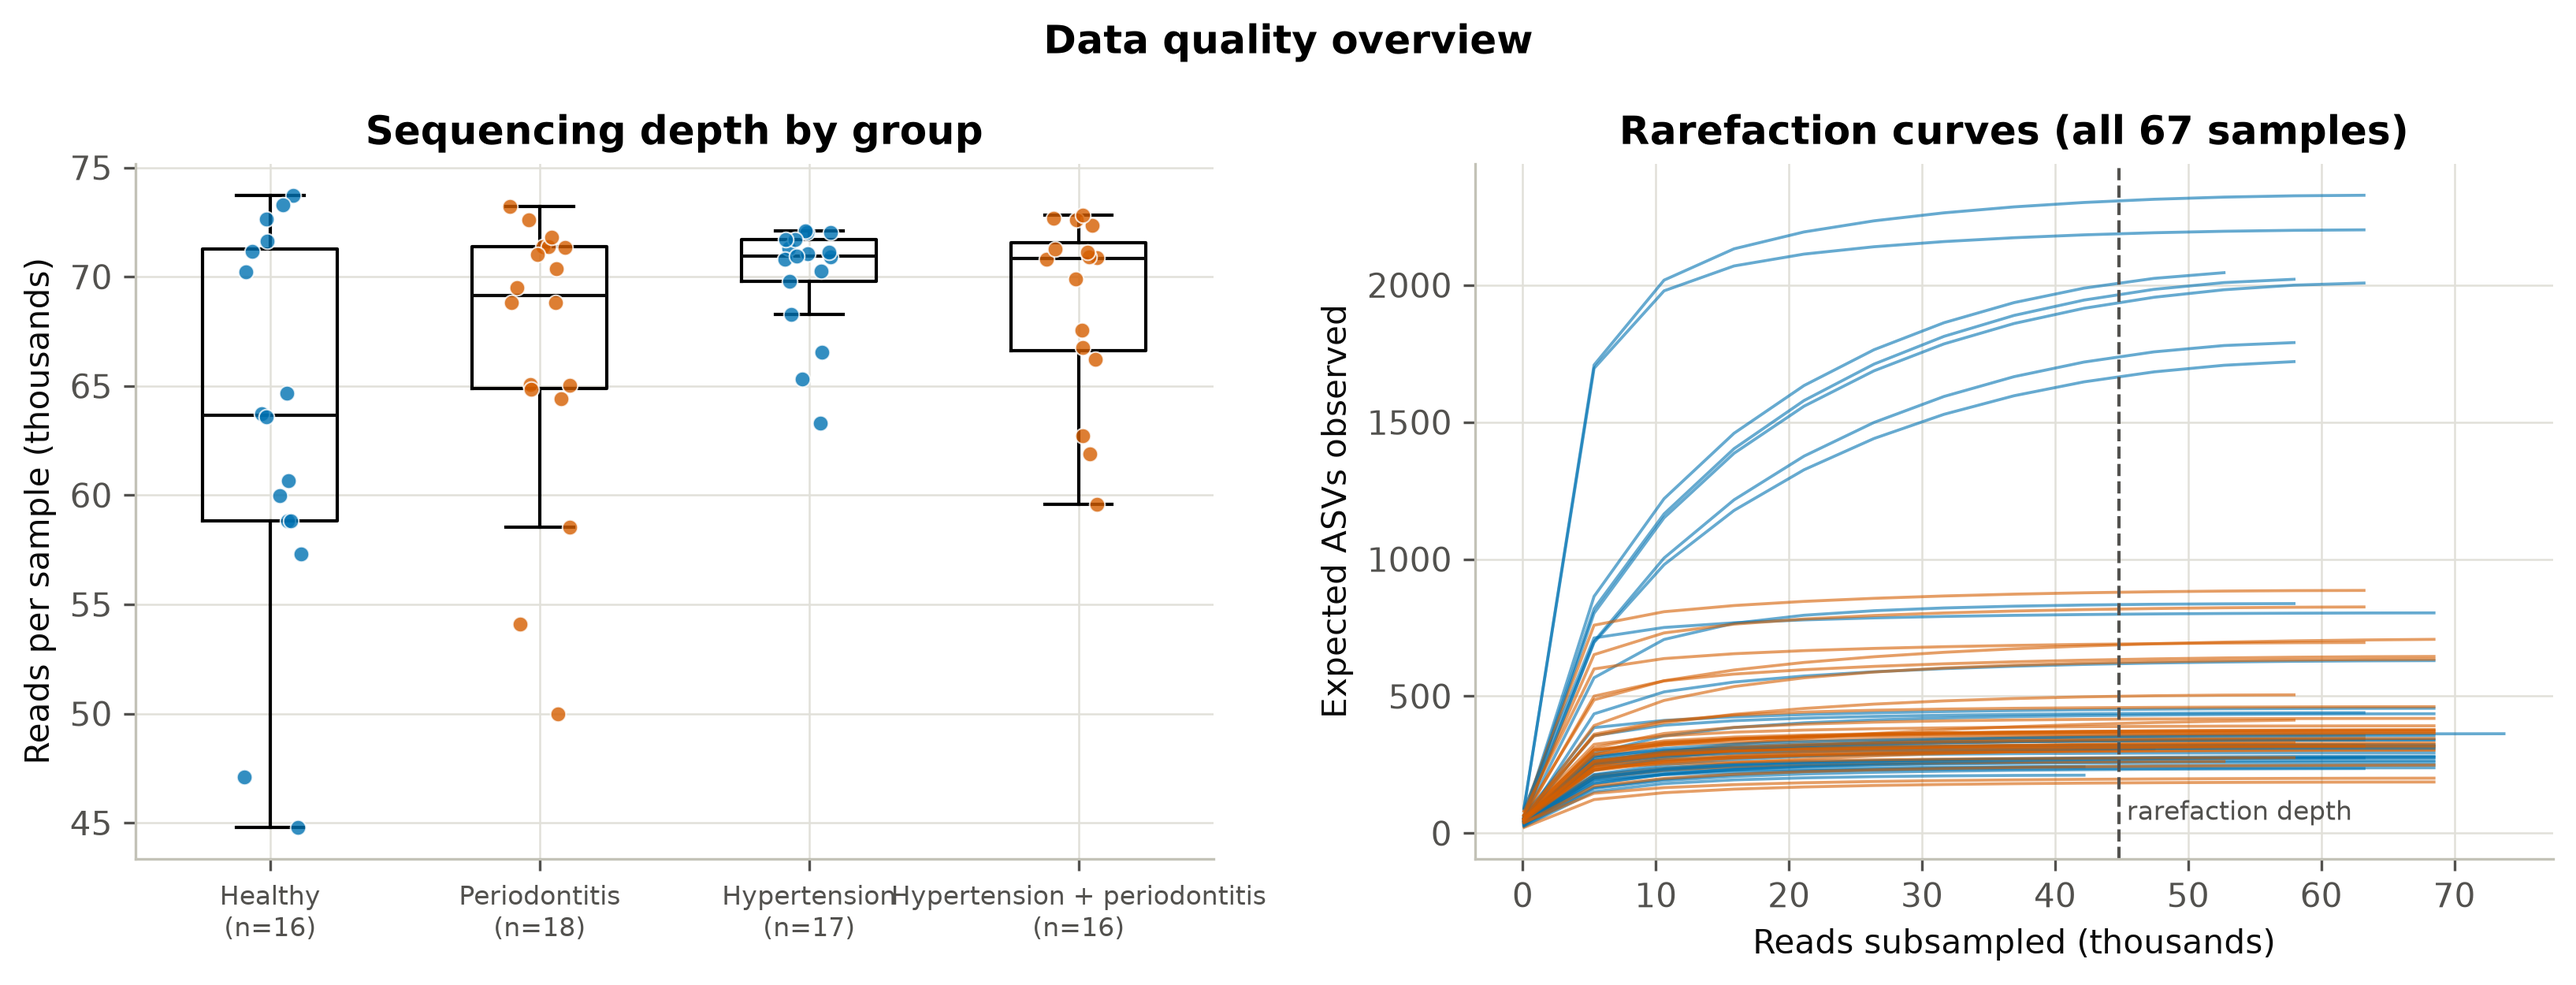
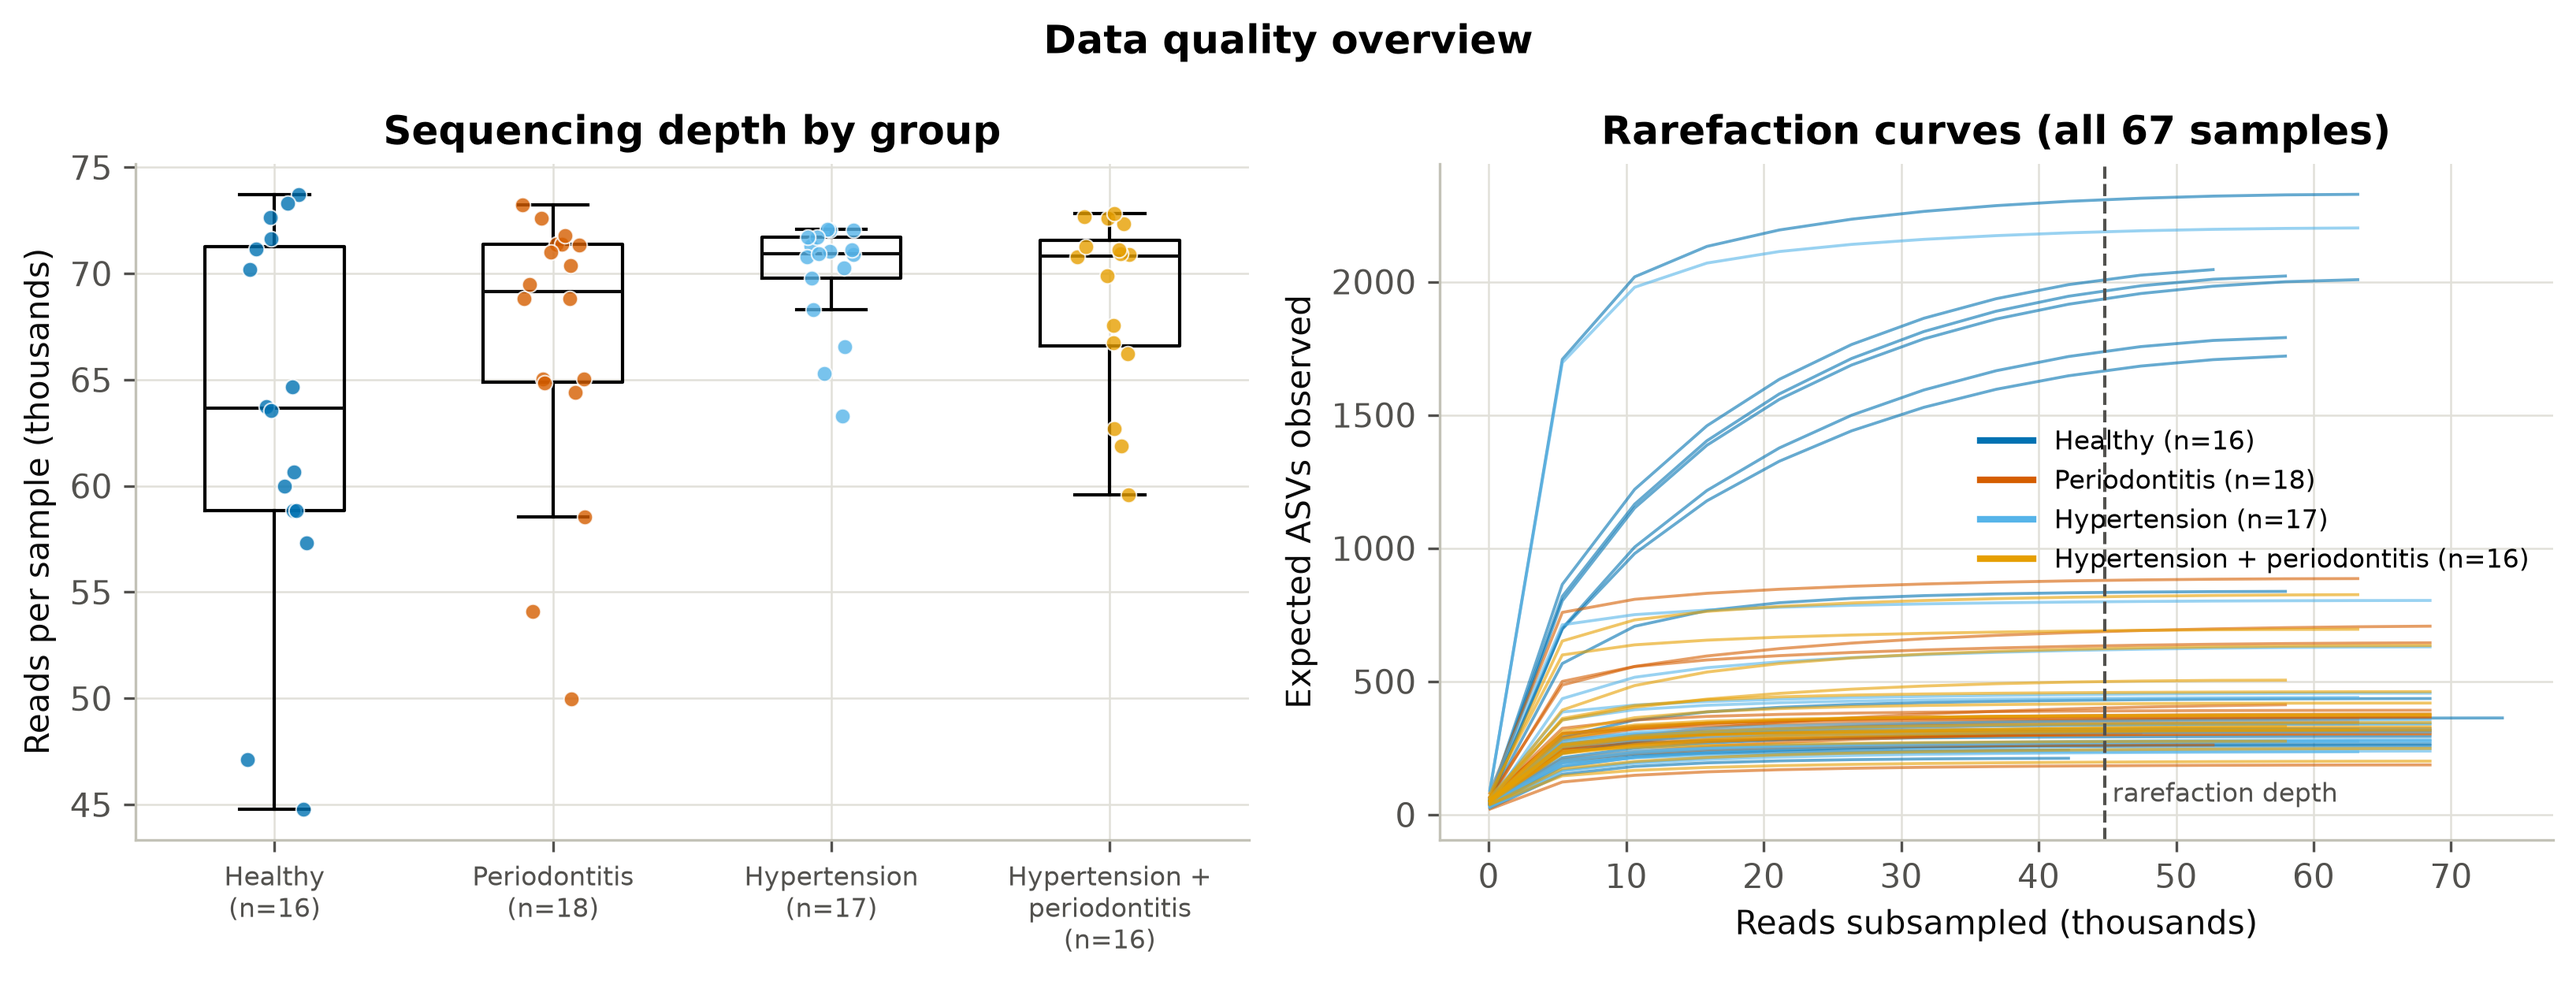
Add Streamlit dashboard with one tab per module and screenshots

diff --git a/app.py b/app.py
@@ -1,0 +1,286 @@
+"""ORALBIOME dashboard: one tab per analysis module (M1-M7) plus replication.
+
+Run with:  streamlit run app.py
+All numbers are read from /results and /data/processed, which run_all.py
+writes; the app does not re-run the statistics.
+"""
+from __future__ import annotations
+
+import json
+import sys
+from pathlib import Path
+
+import altair as alt
+import numpy as np
+import pandas as pd
+import streamlit as st
+
+ROOT = Path(__file__).resolve().parent
+sys.path.insert(0, str(ROOT / "src"))
+
+from oralbiome import config  # noqa: E402
+from oralbiome.preprocessing import aggregate, relative_abundance  # noqa: E402
+
+RESULTS, FIGURES, PROCESSED = config.RESULTS, config.FIGURES, config.DATA_PROCESSED
+GROUP_DOMAIN = ["Healthy", "Periodontitis"]
+GROUP_RANGE = ["#0072B2", "#D55E00"]
+TAXON_RANGE = ["#2a78d6", "#eb6834", "#1baf7a", "#eda100", "#e87ba4", "#008300",
+               "#4a3aa7", "#e34948", "#c3c2b7"]
+LEVELS = ["phylum", "class", "order", "family", "genus"]
+
+st.set_page_config(page_title="ORALBIOME", page_icon=":material/biotech:", layout="wide")
+
+
+@st.cache_data(max_entries=4)
+def load_json(name: str) -> dict:
+    return json.loads((RESULTS / name).read_text())
+
+
+@st.cache_data(max_entries=32)
+def load_csv(name: str, folder: str = "results", index_col: int | None = None) -> pd.DataFrame:
+    base = RESULTS if folder == "results" else PROCESSED
+    return pd.read_csv(base / name, index_col=index_col)
+
+
+@st.cache_data(max_entries=8)
+def level_table(level: str) -> pd.DataFrame:
+    """Relative abundance (taxa x primary samples) at any taxonomic rank."""
+    meta = load_csv("primary_metadata.csv", "processed", index_col=0)
+    counts = pd.read_csv(PROCESSED / "asv_counts.csv.gz", index_col=0)[meta.index]
+    taxonomy = pd.read_csv(PROCESSED / "asv_taxonomy.csv.gz", index_col=0)
+    return relative_abundance(aggregate(counts, taxonomy, level))
+
+
+def group_color() -> alt.Color:
+    return alt.Color("group:N", scale=alt.Scale(domain=GROUP_DOMAIN, range=GROUP_RANGE),
+                     legend=alt.Legend(title="Group", orient="top"))
+
+
+def tidy(df: pd.DataFrame) -> pd.DataFrame:
+    """Round floats for display; keep p/q values to 3 significant digits."""
+    out = df.copy()
+    for col in out.select_dtypes("float").columns:
+        if col == "p" or col.startswith(("p_", "q_")):
+            out[col] = out[col].map(lambda v: float(f"{v:.3g}"))
+        else:
+            out[col] = out[col].round(4)
+    return out
+
+
+def figure(name: str, caption: str) -> None:
+    path = FIGURES / name
+    if path.exists():
+        st.image(str(path), caption=caption)
+
+
+if not (RESULTS / "summary.json").exists():
+    st.error("No results found. Run `python run_all.py` first, then reload this page.",
+             icon=":material/error:")
+    st.stop()
+
+summary = load_json("summary.json")
+meta_all = load_csv("primary_metadata.csv", "processed", index_col=0)
+
+# ---------------------------------------------------------------- sidebar
+with st.sidebar:
+    st.header("Filters")
+    groups = st.pills("Groups", GROUP_DOMAIN, selection_mode="multi", default=GROUP_DOMAIN,
+                      key="groups")
+    include_flagged = st.toggle("Include flagged atypical samples", value=True, key="flagged",
+                                help="Samples where most reads come from features seen in no "
+                                     "other sample (possible contamination).")
+    level = st.selectbox("Taxonomic level (composition tab)", LEVELS, index=4, key="level")
+    top_n = st.slider("Taxa shown in composition", 3, 8, 8, key="top_n")
+    st.caption("Filters change what is plotted. Test statistics always come from the full "
+               "primary comparison (healthy n=16, periodontitis n=18) saved in /results.")
+
+groups = groups or GROUP_DOMAIN
+meta = meta_all[meta_all["group"].isin(groups)]
+if not include_flagged:
+    meta = meta[~meta["flagged_atypical"].astype(bool)]
+counts_n = meta["group"].value_counts().reindex(GROUP_DOMAIN).dropna().astype(int)
+n_text = ", ".join(f"{g} n={n}" for g, n in counts_n.items())
+
+st.title("ORALBIOME: oral microbiome dysbiosis in periodontitis")
+st.caption(f"Saliva 16S rRNA data, Guo et al. (figshare, CC BY 4.0). Showing: {n_text}. "
+           "All results are associations from a cross-sectional study, not causal findings "
+           "and not a diagnostic test.")
+
+tabs = st.tabs(["Overview", "M1 Preprocessing", "M2 Composition", "M3 Alpha diversity",
+                "M4 Beta diversity", "M5 Differential abundance", "M6 Network",
+                "M7 Classifier", "Replication"])
+
+# ---------------------------------------------------------------- overview
+with tabs[0]:
+    m4, m5, m7 = summary["m4"]["bray_curtis"], summary["m5"], summary["m7"]
+    with st.container(horizontal=True):
+        st.metric("Samples (H / P)", f"{m7['n']['H']} / {m7['n']['P']}", border=True)
+        st.metric("PERMANOVA R² (Bray-Curtis)", f"{m4['permanova']['R2']:.3f}",
+                  f"p = {m4['permanova']['p']:.3f}", delta_color="off", delta_arrow="off", border=True)
+        st.metric("Genera passing FDR 5%", f"{m5['n_significant_fdr05']} / {m5['n_genera_tested']}",
+                  border=True)
+        st.metric("L1-LR AUC (95% CI)",
+                  f"{m7['L1 logistic regression']['auc_pooled_oof']:.2f}",
+                  "[{:.2f}, {:.2f}]".format(*m7["L1 logistic regression"]["auc_bootstrap_ci95"]),
+                  delta_color="off", delta_arrow="off", border=True)
+    st.markdown("**Question.** Does salivary bacterial composition differ between periodontally "
+                "healthy people and people with periodontitis, and can composition alone "
+                "predict the group? See `HYPOTHESIS.md` and `RESULTS_DISCUSSION.md`.")
+    figure("00_data_quality.png", "Read depth and rarefaction curves for all 67 samples.")
+
+# ---------------------------------------------------------------- M1
+with tabs[1]:
+    m1 = summary["m1"]
+    with st.container(horizontal=True):
+        st.metric("Genera before filter", m1["n_genera_input"], border=True)
+        st.metric("Genera after filter", m1["n_genera_after_filter"], border=True)
+        st.metric("Median reads kept", f"{m1['reads_retained_after_filter_median']:.1%}",
+                  border=True)
+        st.metric("Rarefaction depth", f"{m1['rarefy_depth']:,}", border=True)
+    st.markdown(f"A genus is kept if it is detected in at least {m1['min_prevalence']:.0%} of "
+                f"samples and has mean relative abundance of at least {m1['min_mean_rel_abund']:.2%}. "
+                f"Zeros get a pseudocount of {m1['pseudocount']} before the CLR transform.")
+    st.dataframe(meta_all[["group", "read_depth", "flagged_atypical"]], height=300)
+
+# ---------------------------------------------------------------- M2
+with tabs[2]:
+    rel = level_table(level)[meta.index]
+    top = rel.mean(axis=1).sort_values(ascending=False).index[:top_n]
+    shown = pd.concat([rel.loc[top], rel.drop(top).sum().to_frame("Other").T])
+    long = shown.T.join(meta["group"]).reset_index(names="sample").melt(
+        id_vars=["sample", "group"], var_name="taxon", value_name="abundance")
+    order = list(top) + ["Other"]
+    color = alt.Color("taxon:N", scale=alt.Scale(domain=order, range=TAXON_RANGE[:top_n] + ["#c3c2b7"]),
+                      sort=order, legend=alt.Legend(title=level.capitalize(), orient="right"))
+    with st.container(border=True):
+        st.subheader(f"Per-sample composition ({level}; {n_text})")
+        st.altair_chart(alt.Chart(long).mark_bar().encode(
+            x=alt.X("sample:N", sort=list(meta.sort_values("group").index), title=None),
+            y=alt.Y("abundance:Q", stack="normalize", axis=alt.Axis(format="%"), title="Relative abundance"),
+            color=color, order=alt.Order("taxon_order:Q"),
+            tooltip=["sample", "group", "taxon", alt.Tooltip("abundance:Q", format=".1%")],
+        ).transform_calculate(taxon_order=f"indexof({json.dumps(order)}, datum.taxon)").properties(height=360))
+    means = long.groupby(["group", "taxon"], as_index=False)["abundance"].mean()
+    with st.container(border=True):
+        st.subheader(f"Group means ({n_text})")
+        st.altair_chart(alt.Chart(means).mark_bar().encode(
+            x=alt.X("abundance:Q", stack="normalize", axis=alt.Axis(format="%"), title="Mean relative abundance"),
+            y=alt.Y("group:N", title=None), color=color,
+            tooltip=["group", "taxon", alt.Tooltip("abundance:Q", format=".1%")],
+        ).properties(height=140))
+    st.markdown("**Core genera** (detected in at least 90% of a group)")
+    st.dataframe(load_csv("m2_core_microbiome.csv", index_col=0), height=280)
+
+# ---------------------------------------------------------------- M3
+with tabs[3]:
+    alpha = load_csv("m3_alpha_per_sample.csv", index_col=0).loc[meta.index]
+    metric = st.segmented_control("Metric", ["shannon", "simpson", "observed", "pielou"],
+                                  default="shannon", key="alpha_metric") or "shannon"
+    st.subheader(f"Alpha diversity, genus level ({n_text})")
+    data = alpha.reset_index(names="sample")
+    base = alt.Chart(data).encode(x=alt.X("group:N", title=None, sort=GROUP_DOMAIN,
+                                          axis=alt.Axis(labelAngle=0)))
+    chart = base.mark_boxplot(size=60, opacity=0.35, extent="min-max").encode(
+        y=alt.Y(f"genus_{metric}:Q", title=metric.capitalize(), scale=alt.Scale(zero=False)),
+        color=group_color()) + base.mark_circle(size=60).encode(
+        y=f"genus_{metric}:Q", color=group_color(),
+        xOffset=alt.XOffset("jitter:Q", scale=alt.Scale(domain=[-2.5, 2.5])),
+        tooltip=["sample", "group", alt.Tooltip(f"genus_{metric}:Q", format=".3f")]
+    ).transform_calculate(jitter="random() - 0.5")
+    st.altair_chart(chart.properties(height=380))
+    tests = load_csv("m3_alpha_tests.csv")
+    st.markdown("**Mann-Whitney U tests** (rank-biserial r > 0 means higher in periodontitis)")
+    st.dataframe(tidy(tests), hide_index=True)
+
+# ---------------------------------------------------------------- M4
+with tabs[4]:
+    dist = st.segmented_control("Distance", ["bray_curtis", "jaccard"], default="bray_curtis",
+                                format_func=lambda d: d.replace("_", "-").title(),
+                                key="distance") or "bray_curtis"
+    coords = load_csv(f"m4_ordination_{dist}.csv", index_col=0).loc[meta.index]
+    method = st.segmented_control("Ordination", ["PCoA", "NMDS"], default="PCoA",
+                                  key="ordination") or "PCoA"
+    xcol, ycol = ("PCo1", "PCo2") if method == "PCoA" else ("NMDS1", "NMDS2")
+    st.subheader(f"{method} of {dist.replace('_', '-')} distances ({n_text})")
+    pts = coords.join(meta[["group", "flagged_atypical"]]).reset_index(names="sample")
+    st.altair_chart(alt.Chart(pts).mark_point(size=90, filled=True).encode(
+        x=alt.X(f"{xcol}:Q"), y=alt.Y(f"{ycol}:Q"), color=group_color(),
+        shape=alt.Shape("flagged_atypical:N", title="Flagged"),
+        tooltip=["sample", "group", "flagged_atypical"]).properties(height=420))
+    res = summary["m4"][dist]
+    with st.container(horizontal=True):
+        st.metric("PERMANOVA R²", f"{res['permanova']['R2']:.3f}", border=True)
+        st.metric("PERMANOVA p", f"{res['permanova']['p']:.3f}", border=True)
+        st.metric("PERMDISP p", f"{res['permdisp']['p']:.3f}", border=True)
+        st.metric("PERMANOVA p without flagged", f"{res['permanova_excluding_flagged']['p']:.3f}",
+                  border=True)
+    figure("07_distance_heatmap.png", "Bray-Curtis dissimilarity between all primary samples.")
+
+# ---------------------------------------------------------------- M5
+with tabs[5]:
+    da = load_csv("m5_differential_abundance_genus.csv", index_col=0).reset_index()
+    st.subheader("Volcano plot, 354 genera (healthy n=16, periodontitis n=18)")
+    da["neg_log10_p"] = -np.log10(da["p"])
+    da["status"] = da.apply(lambda r: "q < 0.05" if r["q_bh"] < 0.05 else
+                            ("p < 0.05" if r["p"] < 0.05 else "n.s."), axis=1)
+    st.altair_chart(alt.Chart(da).mark_circle(size=45).encode(
+        x=alt.X("clr_mean_diff:Q", title="CLR difference (periodontitis - healthy)"),
+        y=alt.Y("neg_log10_p:Q", title="-log10 p"),
+        color=alt.Color("status:N", scale=alt.Scale(domain=["q < 0.05", "p < 0.05", "n.s."],
+                                                   range=["#D55E00", "#eda100", "#c3c2b7"])),
+        tooltip=["taxon", alt.Tooltip("clr_mean_diff:Q", format=".2f"),
+                 alt.Tooltip("p:Q", format=".4f"), alt.Tooltip("q_bh:Q", format=".3f")],
+    ).properties(height=400))
+    st.caption(f"Null control: with shuffled labels, on average {m5['null_fdr_hits_mean']:.2f} genera "
+               f"pass FDR ({m5['n_null_permutations']} shuffles). Observed raw p < 0.05: "
+               f"{m5['n_raw_p_below_005']} vs {m5['expected_raw_p_below_005_by_chance']} expected by chance.")
+    st.markdown("**Pre-declared red-complex species test**")
+    st.dataframe(tidy(load_csv("m5_red_complex_species.csv", index_col=0)))
+    query = st.text_input("Filter ranked table by genus name", key="da_query")
+    table = da if not query else da[da["taxon"].str.contains(query, case=False)]
+    st.dataframe(tidy(table.drop(columns=["neg_log10_p", "status"])), hide_index=True, height=320)
+
+# ---------------------------------------------------------------- M6
+with tabs[6]:
+    m6 = summary["m6"]
+    with st.container(horizontal=True):
+        st.metric("Genera in network", m6["n_nodes"], border=True)
+        st.metric("Edges", m6["n_edges"], border=True)
+        st.metric("Positive / negative", f"{m6['n_positive_edges']} / {m6['n_negative_edges']}",
+                  border=True)
+    figure("11_cooccurrence_network.png", "Spearman co-occurrence network on CLR abundances.")
+    st.markdown("**Hub genera** (by degree) and red-complex pairwise correlations")
+    st.dataframe(tidy(load_csv("m6_hub_taxa.csv", index_col=0).head(20)))
+    st.dataframe(tidy(load_csv("m6_red_complex_pairs.csv")), hide_index=True)
+
+# ---------------------------------------------------------------- M7
+with tabs[7]:
+    for name in ("L1 logistic regression", "Random forest"):
+        r = m7[name]
+        with st.container(horizontal=True):
+            st.metric(f"{name}: AUC", f"{r['auc_pooled_oof']:.2f}",
+                      "95% CI [{:.2f}, {:.2f}]".format(*r["auc_bootstrap_ci95"]), delta_color="off", delta_arrow="off",
+                      border=True)
+            st.metric("Permuted-label AUC (mean)", f"{r['null_auc_mean']:.2f}", border=True)
+            st.metric("Permutation p", f"{r['permutation_p']:.4f}", border=True)
+            st.metric("AUC without top genus", f"{m7['ablation_without_top_genus'][name]:.2f}",
+                      border=True)
+    left, right = st.columns(2)
+    with left:
+        figure("12_roc_curves.png", "Out-of-fold ROC curves with bootstrap 95% bands.")
+    with right:
+        figure("14_permutation_null.png", "AUCs from label-shuffled data (negative control).")
+    figure("13_feature_importance.png", "Genera used by the fold-level models.")
+
+# ---------------------------------------------------------------- replication
+with tabs[8]:
+    rep = summary["replication"]
+    st.markdown("The same pipeline re-run on hypertensive participants without (T) and with (TP) "
+                "periodontitis, a second, independent set of people from the same study.")
+    with st.container(horizontal=True):
+        st.metric("Samples (T / TP)", f"{rep['n']['T']} / {rep['n']['TP']}", border=True)
+        st.metric("PERMANOVA p", f"{rep['permanova_bray_curtis']['p']:.3f}", border=True)
+        st.metric("L1-LR AUC", f"{rep['classifier']['L1 logistic regression']['auc_pooled_oof']:.2f}",
+                  border=True)
+    figure("15_replication_forest.png", "Effect sizes in both cohorts.")
+    st.dataframe(tidy(load_csv("replication_effect_sizes.csv")), hide_index=True)

diff --git a/src/oralbiome/qc.py b/src/oralbiome/qc.py
@@ -57,7 +57,9 @@ def plot_qc(ds: Dataset, curves: pd.DataFrame) -> None:
         axes[0].scatter(i + rng.uniform(-0.12, 0.12, len(depths)), depths, s=22,
                         color=color, alpha=0.8, edgecolor="white", linewidth=0.5, zorder=3)
     axes[0].set_xticks(range(len(order)))
-    axes[0].set_xticklabels([f"{g}\n(n={int((meta['group'] == g).sum())})" for g in order], fontsize=8)
+    short = {"Hypertension + periodontitis": "Hypertension +\nperiodontitis"}
+    axes[0].set_xticklabels([f"{short.get(g, g)}\n(n={int((meta['group'] == g).sum())})"
+                             for g in order], fontsize=8)
     axes[0].set_ylabel("Reads per sample (thousands)")
     axes[0].set_title("Sequencing depth by group")
 
@@ -65,6 +67,10 @@ def plot_qc(ds: Dataset, curves: pd.DataFrame) -> None:
         label = meta.loc[sample, "group"]
         axes[1].plot(sub["depth"] / 1000, sub["expected_richness"], lw=0.9, alpha=0.6,
                      color=style.GROUP_COLORS.get(label, style.NEUTRAL_COLOR))
+    for label in order:
+        axes[1].plot([], [], color=style.GROUP_COLORS.get(label, style.NEUTRAL_COLOR), lw=2,
+                     label=f"{label} (n={int((meta['group'] == label).sum())})")
+    axes[1].legend(loc="center right", fontsize=8)
     axes[1].axvline(meta["read_depth"].min() / 1000, color=style.INK_SECONDARY, ls="--", lw=1)
     axes[1].text(meta["read_depth"].min() / 1000, axes[1].get_ylim()[1] * 0.02,
                  " rarefaction depth", fontsize=8, color=style.INK_SECONDARY)

diff --git a/src/oralbiome/style.py b/src/oralbiome/style.py
@@ -21,8 +21,8 @@ from . import config  # noqa: E402
 GROUP_COLORS: dict[str, str] = {
     "Healthy": "#0072B2",
     "Periodontitis": "#D55E00",
-    "Hypertension": "#0072B2",
-    "Hypertension + periodontitis": "#D55E00",
+    "Hypertension": "#56B4E9",
+    "Hypertension + periodontitis": "#E69F00",
 }
 TAXON_COLORS: list[str] = [
     "#2a78d6", "#eb6834", "#1baf7a", "#eda100",

diff --git a/PROGRESS.md b/PROGRESS.md
@@ -8,12 +8,13 @@
 - Phase 4: M5 differential abundance (genus scan + BH, permutation null, pre-declared red-complex species test, high-richness diagnostic).
 - Phase 5: M6 co-occurrence network, M7 classifiers (nested CV, permutation null, ablation), replication cohort T vs TP.
 - Phase 6: visuals pass (16 figures at 300 dpi, colorblind-safe palette, n on every group figure), figures/CAPTIONS.md.
+- Phase 7: Streamlit dashboard `app.py` (9 tabs, sidebar filters: groups, flagged samples, taxonomic level, top-N); verified with AppTest and a live launch; screenshots in docs/screenshots/
 
 ## In progress
-- Phase 7: Streamlit dashboard (app.py).
+- Phase 8: pytest suite, synthetic recovery test, fresh-venv check.
 
 ## Next
-- Phase 8 tests, Phase 9 docs.
+- Phase 9 docs.
 
 ## Known bugs
 - None.
